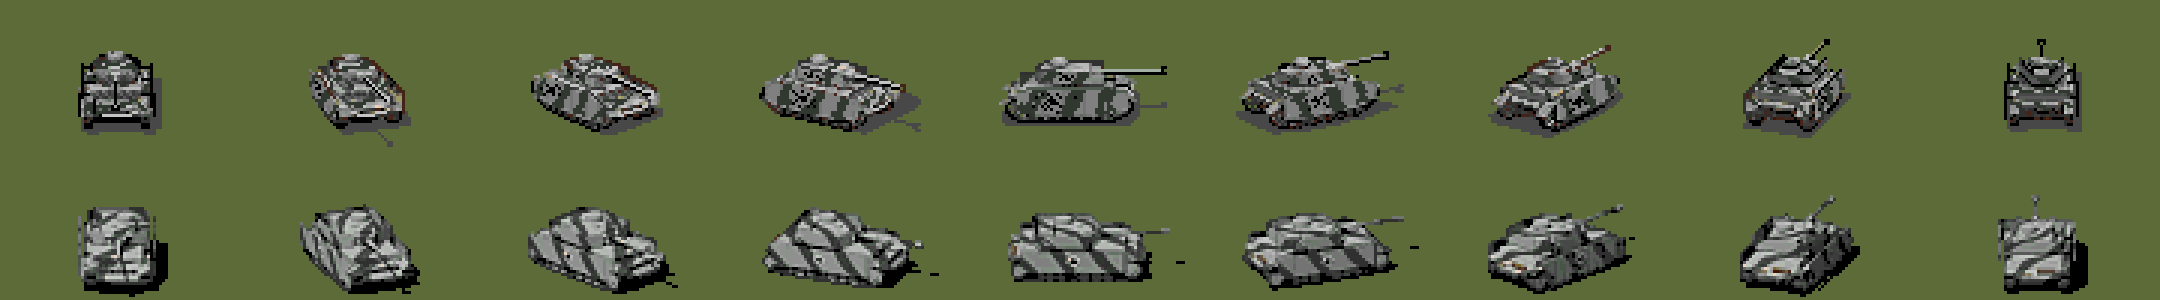
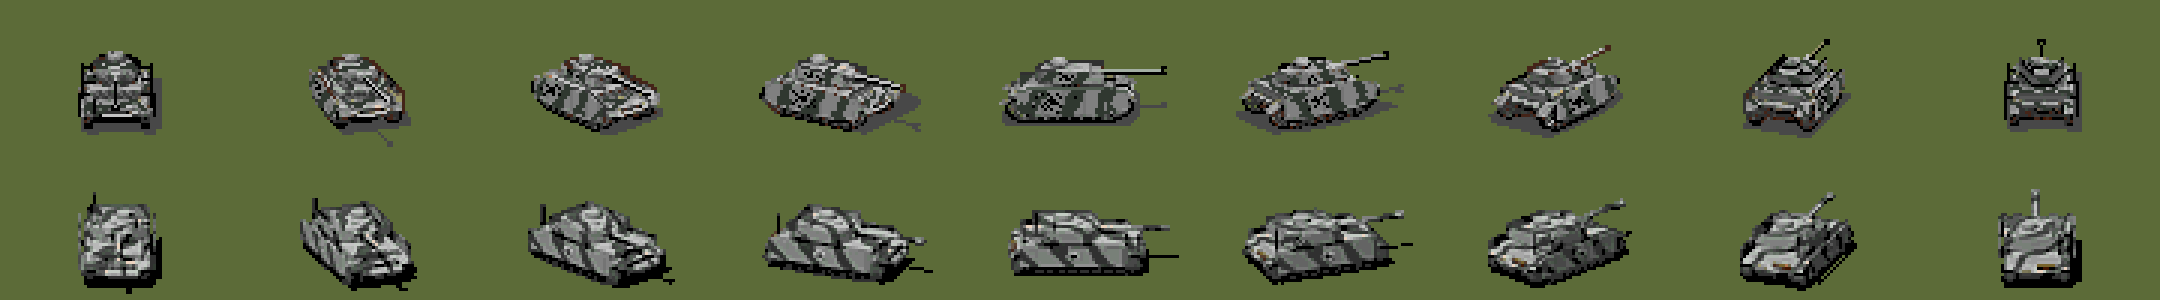
Seat the Panzer IV H sprite on the ground like the old ones
The new tank looked taller than the old sprite: from the side it was widest at the turret skirts and the gun, the old one at the hull and tracks, and its tracks ended 2 px lower in the frame. The pixel strip now squashes the height to 0.85 and puts the vehicle 2 px higher, draws the gun and the antenna thicker than real so they stay a line, lights the roof brighter than the sides and darkens the running gear. Every frame's area is within 5% of the old one. docs/ASSETS.md says what was measured and how the strip was seen in the game (as public/hd/units/images/pa131.webp, scenario Zitadelle). Docs and art scripts only.

diff --git a/art/units/render.py b/art/units/render.py
@@ -20,7 +20,8 @@ sys.path.insert(0, os.path.dirname(os.path.abspath(__file__)))
 import panzer_iv  # noqa: E402
 
 FRAME_W, FRAME_H = 80, 50
-CENTRE = (39.0, 31.5)  # where the original strips put the middle of the vehicle, in 1x pixels
+SUN_TILT = 32  # degrees from straight down
+CENTRE = (39.0, 29.5)  # where the middle of the vehicle goes, in 1x pixels: its tracks end where the old strips' do
 
 
 def reset():
@@ -94,8 +95,8 @@ def stripe_material(colours):
 	wave.wave_type = "BANDS"
 	wave.bands_direction = "DIAGONAL"
 	wave.inputs["Scale"].default_value = 0.3
-	wave.inputs["Distortion"].default_value = 4
-	wave.inputs["Detail"].default_value = 1
+	wave.inputs["Distortion"].default_value = 7
+	wave.inputs["Detail"].default_value = 2
 	ramp = nt.nodes.new("ShaderNodeValToRGB")
 	ramp.color_ramp.interpolation = "CONSTANT"
 	els = ramp.color_ramp.elements
@@ -113,6 +114,7 @@ def materials(palette="grey"):
 	return {
 		"paint": stripe_material(PALETTES[palette]) if palette == "grey" else camo_material(PALETTES[palette]),
 		"track": node_material("track", (0.035, 0.03, 0.028)),
+		"running": node_material("running", (0.07, 0.07, 0.065)),  # the wheels in the shade under the skirts
 		"rubber": node_material("rubber", (0.02, 0.02, 0.02)),
 		"rust": node_material("rust", (0.12, 0.05, 0.025)),
 		"black": node_material("black", (0.01, 0.01, 0.01)),
@@ -154,7 +156,7 @@ def lights():
 	sun = bpy.data.objects.new("sun", bpy.data.lights.new("sun", "SUN"))
 	sun.data.energy = 5
 	sun.data.angle = math.radians(2)
-	sun.rotation_euler = (math.radians(32), 0, math.radians(-35))  # from the upper left, behind the viewer
+	sun.rotation_euler = (math.radians(SUN_TILT), 0, math.radians(-35))  # from the upper left, behind the viewer
 	bpy.context.collection.objects.link(sun)
 	world = bpy.data.worlds.new("world")
 	world.use_nodes = True
@@ -220,28 +222,28 @@ def pack(frames, out, scale):
 	img.save()
 
 
-def fit(reference, elevs=range(0, 50, 5), scales=np.arange(7.0, 10.01, 0.5)):
+def fit(reference, elevs=range(0, 50, 5), scales=np.arange(7.0, 10.01, 0.5), squashes=(1.0,)):
 	ref = load_rgba(reference)
 	# The vehicle without its black shadow
 	ref_mask = (ref[..., 3] > 0.5) & (ref[..., :3].max(axis=2) > 0.02)
 	tmp = tempfile.mkdtemp()
 	results = []
-	for elev in elevs:
-		for pxm in scales:
-			reset()
-			root = build()
-			camera(elev, pxm, 1)
-			sc = bpy.context.scene
-			sc.render.engine = "BLENDER_WORKBENCH"
-			sc.display.shading.light = "FLAT"
-			render_frames(root, lambda i: os.path.join(tmp, f"m{i}.png"))
-			ious = []
-			for i in range(9):
-				m = load_rgba(os.path.join(tmp, f"m{i}.png"))[..., 3] > 0.5
-				r = ref_mask[:, i * FRAME_W:(i + 1) * FRAME_W]
-				ious.append((m & r).sum() / max((m | r).sum(), 1))
-			results.append((float(np.mean(ious)), elev, float(pxm), [round(float(x), 2) for x in ious]))
-			print(f"elev {elev:4.1f} px/m {pxm:4.1f} iou {np.mean(ious):.3f}", flush=True)
+	for elev, pxm, squash in ((e, p, q) for e in elevs for p in scales for q in squashes):
+		reset()
+		root = build()
+		root.scale = (1, 1, squash)
+		camera(elev, pxm, 1)
+		sc = bpy.context.scene
+		sc.render.engine = "BLENDER_WORKBENCH"
+		sc.display.shading.light = "FLAT"
+		render_frames(root, lambda i: os.path.join(tmp, f"m{i}.png"))
+		ious = []
+		for i in range(9):
+			m = load_rgba(os.path.join(tmp, f"m{i}.png"))[..., 3] > 0.5
+			r = ref_mask[:, i * FRAME_W:(i + 1) * FRAME_W]
+			ious.append((m & r).sum() / max((m | r).sum(), 1))
+		results.append((float(np.mean(ious)), float(elev), float(pxm), float(squash), [round(float(x), 2) for x in ious]))
+		print(f"elev {elev:4.1f} px/m {pxm:4.1f} squash {squash:4.2f} iou {np.mean(ious):.3f}", flush=True)
 	results.sort(reverse=True)
 	print("BEST", results[:5])
 
@@ -374,12 +376,15 @@ def pixelate(tank, shadowed, palette, f):
 	return out
 
 
-def pixel(reference, out, elev=22.5, pxm=7.6, squash=0.9, render_scale=8):
+def pixel(reference, out, elev=22.5, pxm=7.6, squash=0.85, render_scale=8):
 	# Render big, then pixelate to the 1x strip and to the @2x strip, in the old strip's colours
 	ref = load_rgba(reference)
 	opaque = ref[..., 3] > 0.5
 	palette = np.unique(np.round(ref[opaque][:, :3] * 255), axis=0) / 255
 	reset()
+	global SUN_TILT
+	SUN_TILT = 25  # a high sun: a bright roof over darker sides, as on the old sprites
+	panzer_iv.THICKEN.update(gun=1.6, antenna=5)
 	root = build()
 	# The PG2 sprites are squatter than the real vehicle: wider and longer for their height
 	root.scale = (1, 1, squash)
@@ -435,9 +440,10 @@ elif args[0] == "side":
 elif args[0] == "view":
 	view(os.path.abspath(args[1]), float(args[2]), float(args[3]))
 elif args[0] == "fit":
-	if len(args) > 2:  # a finer search: fit REF ELEV0 ELEV1 ELEVSTEP PXM0 PXM1 PXMSTEP
-		a = [float(x) for x in args[2:8]]
-		fit(os.path.abspath(args[1]), np.arange(a[0], a[1] + 1e-6, a[2]), np.arange(a[3], a[4] + 1e-6, a[5]))
+	if len(args) > 2:  # a finer search: fit REF ELEV0 ELEV1 ELEVSTEP PXM0 PXM1 PXMSTEP [SQ0 SQ1 SQSTEP]
+		a = [float(x) for x in args[2:]]
+		sq = np.arange(a[6], a[7] + 1e-6, a[8]) if len(a) >= 9 else (1.0,)
+		fit(os.path.abspath(args[1]), np.arange(a[0], a[1] + 1e-6, a[2]), np.arange(a[3], a[4] + 1e-6, a[5]), sq)
 	else:
 		fit(os.path.abspath(args[1]))
 else:

diff --git a/art/units/panzer_iv.py b/art/units/panzer_iv.py
@@ -28,6 +28,9 @@ ROLLERS_D = (1.46, 2.39, 3.41, 4.43)
 SPROCKET = (0.56, 0.66, 0.36)       # d, z, r
 IDLER = (5.45, 0.55, 0.30)
 SKIRT_Y, SKIRT_Z, SKIRT_D = 1.62, (0.60, 1.68), (0.95, 5.45)
+# A sprite needs the gun and the antenna thicker than real, or they break up at 80x50: the old
+# strips draw them as a clear line. render.py sets this for the pixel strips.
+THICKEN = {"gun": 1.0, "antenna": 1.0}
 TURRET_SKIRT_Y, TURRET_SKIRT_D = 1.33, (2.05, 4.85)
 
 
@@ -172,7 +175,7 @@ def hull(m):
 	parts.append(box("hatch_r", (4.45, 5.25), (-0.85, -0.10), (ENGINE_Z - 0.02, ENGINE_Z + 0.03), m["paint"]))
 	parts.append(cylinder("muffler", 0.12, 0.80, (5.70, -0.40, 1.19), "y", m["rust"], 14))
 	parts.append(cylinder("aux_muffler", 0.06, 0.45, (5.80, 0.45, 1.02), "y", m["rust"], 10))
-	parts.append(cylinder("antenna", 0.012, 1.2, (5.30, -1.0, ENGINE_Z + 0.6), "z", m["black"], 6))
+	parts.append(cylinder("antenna", 0.012 * THICKEN["antenna"], 1.2, (5.30, -1.0, ENGINE_Z + 0.6), "z", m["black"], 6))
 	return parts
 
 
@@ -197,8 +200,8 @@ def turret(m):
 	parts.append(cylinder("gun_collar", 0.15, 0.40, (1.75, o, GUN_Z), "x", m["paint"], 16))
 	parts.append(cylinder("gun_sleeve", 0.11, 0.50, (1.30, o, GUN_Z), "x", m["paint"], 16))
 	barrel = 1.05 - (MUZZLE_D + 0.32)
-	parts.append(cylinder("gun", 0.068, barrel, (1.05 - barrel / 2, o, GUN_Z), "x", m["paint"], 14))
-	parts.append(cylinder("muzzle_brake", 0.13, 0.32, (MUZZLE_D + 0.16, o, GUN_Z), "x", m["paint"], 16))
+	parts.append(cylinder("gun", 0.068 * THICKEN["gun"], barrel, (1.05 - barrel / 2, o, GUN_Z), "x", m["paint"], 14))
+	parts.append(cylinder("muzzle_brake", 0.13 * max(1, THICKEN["gun"] * 0.8), 0.32, (MUZZLE_D + 0.16, o, GUN_Z), "x", m["paint"], 16))
 	parts.append(cylinder("coax", 0.025, 0.25, (1.85, o + 0.25, GUN_Z + 0.05), "x", m["black"], 8))
 	return parts
 
@@ -251,14 +254,14 @@ def running_gear(m):
 		yc = s * TRACK_Y
 		parts.append(track_band(f"track_{s}", outer, yc - TRACK_W / 2, yc + TRACK_W / 2, m["track"]))
 		for i, d in enumerate(WHEELS_D):
-			parts.append(cylinder(f"wheel_{s}_{i}", WHEEL_R, TRACK_W * 0.9, (d, yc, WHEEL_R + 0.075), "y", m["paint"], 18))
+			parts.append(cylinder(f"wheel_{s}_{i}", WHEEL_R, TRACK_W * 0.9, (d, yc, WHEEL_R + 0.075), "y", m["running"], 18))
 			parts.append(cylinder(f"tyre_{s}_{i}", WHEEL_R + 0.005, TRACK_W * 0.86, (d, yc, WHEEL_R + 0.075), "y", m["rubber"], 18))
-			parts.append(cylinder(f"hub_{s}_{i}", 0.09, TRACK_W * 0.96, (d, yc, WHEEL_R + 0.075), "y", m["paint"], 10))
+			parts.append(cylinder(f"hub_{s}_{i}", 0.09, TRACK_W * 0.96, (d, yc, WHEEL_R + 0.075), "y", m["running"], 10))
 		for i, d in enumerate(ROLLERS_D):
-			parts.append(cylinder(f"roller_{s}_{i}", 0.11, 0.18, (d, s * (TRACK_Y + 0.05), 0.92), "y", m["paint"], 12))
-		parts.append(cylinder(f"sprocket_{s}", SPROCKET[2], TRACK_W + 0.04, (SPROCKET[0], yc, SPROCKET[1]), "y", m["paint"], 20))
-		parts.append(cylinder(f"sprocket_hub_{s}", 0.16, TRACK_W + 0.14, (SPROCKET[0], yc, SPROCKET[1]), "y", m["paint"], 12))
-		parts.append(cylinder(f"idler_{s}", IDLER[2], TRACK_W + 0.04, (IDLER[0], yc, IDLER[1]), "y", m["paint"], 20))
+			parts.append(cylinder(f"roller_{s}_{i}", 0.11, 0.18, (d, s * (TRACK_Y + 0.05), 0.92), "y", m["running"], 12))
+		parts.append(cylinder(f"sprocket_{s}", SPROCKET[2], TRACK_W + 0.04, (SPROCKET[0], yc, SPROCKET[1]), "y", m["running"], 20))
+		parts.append(cylinder(f"sprocket_hub_{s}", 0.16, TRACK_W + 0.14, (SPROCKET[0], yc, SPROCKET[1]), "y", m["running"], 12))
+		parts.append(cylinder(f"idler_{s}", IDLER[2], TRACK_W + 0.04, (IDLER[0], yc, IDLER[1]), "y", m["running"], 20))
 	return parts
 
 

diff --git a/docs/ASSETS.md b/docs/ASSETS.md
@@ -194,31 +194,70 @@ one.
 With true proportions the new tank came out narrower and taller than the old one. Measured
 outlines without the shadow, 1x pixels:
 
-| Frame | Old | True scale (7.2 px/m) | Chosen (7.6 px/m, height × 0.9) |
-|---|---|---|---|
-| 0, front | 28 × 28 | 24 × 26 | 26 × 26 |
-| 2, three-quarter | 43 × 27 | 44 × 28 | 46 × 28 |
-| 4, side | 56 × 23 | 51 × 24 | 54 × 23 |
-| 8, rear | 25 × 25 | 24 × 31 | 26 × 31 |
+| Frame | Old | True scale (7.2 px/m) | First fix (7.6 px/m, height × 0.9) | Final (7.6 px/m, height × 0.85) |
+|---|---|---|---|---|
+| 0, front | 28 × 28 | 24 × 26 | 26 × 26 | 26 × 29 |
+| 2, three-quarter | 43 × 27 | 44 × 28 | 46 × 28 | 46 × 28 |
+| 4, side | 56 × 23 | 51 × 24 | 54 × 23 | 54 × 22 |
+| 8, rear | 25 × 25 | 24 × 31 | 26 × 31 | 26 × 31 |
 
 The old strip is not one consistent projection: 56 px long from the side but 43 px across at 45
 degrees, where a true projection of that length and width would be about 59. The photographs of
 the scale models were probably taken close up, with perspective, so each angle is squeezed
 differently. A geometric render can't match every frame; the chosen scale keeps the new tank the
-size of the old units on the map: front and side 1-2 px smaller, the diagonals 1-3 px larger. The
-rear view stays taller (the gun shows above the turret from behind, and the antenna).
+size of the old units on the map: front and side 1-2 px smaller, the diagonals 1-3 px larger, the
+area of every frame within 5% of the old one. The rear view stays taller (the gun shows above the
+turret from behind). The front grew 3 px with the thicker antenna.
+
+The model keeps its real measurements: only the projection is scaled (`render.py pixel`:
+`pxm`, `squash`), as SSI's camera did.
+
+### Sitting on the ground
+
+Even at the old size the new tank looked taller, "not sitting on the ground" like the old one.
+Two measurable reasons:
+
+- **Where the mass is.** From the side the old sprite is widest at 70% of its height, down at the
+  long hull and the tracks; the first renders were widest at 26%, up at the turret skirts and the
+  gun. A tank that is heaviest at the bottom reads as standing on the ground. The stronger squash
+  (0.85) and the darker running gear move the weight down.
+- **Where it stands in the frame.** The new tracks ended 2 px lower than the old ones (y 43-46
+  against 41-44 in the 80×50 frame), so on a hex it stood differently from every other unit. The
+  camera now puts the vehicle's middle 2 px higher (`CENTRE`), and the tracks end where the old
+  strips' do.
+
+### Fixes for the sprite
+
+- The gun and the antenna are drawn thicker than real in the pixel strips (`THICKEN` in
+  `panzer_iv.py`: the gun 1.6 times, the antenna 5 times): at real size the gun is thinner than a
+  pixel and breaks up, the old strips draw both as a clear line.
+- A higher sun (25 degrees from straight down): a bright roof over darker sides, as on the old
+  sprites. The road wheels, sprocket, idler and return rollers are a dark grey of their own, in
+  the shade under the skirts.
+- The camouflage bands are more irregular (more distortion in the wave).
+
+### Seen in the game
+
+The game already loads a sharper file for each unit on high density screens (`src/render.ts`,
+`hdPath`): `resources/units/images/pa131.png` is drawn from `/hd/units/images/pa131.webp` when it
+exists. So the new strip goes in without touching the game:
+
+    cwebp -lossless out@2x.png -o public/hd/units/images/pa131.webp
+
+`npm run dev`, then on a screen of 1.5x or more: New Game, Scenarios, **Zitadelle** (not
+"Operation Zitadelle"): six Pz IVH stand in the German column on the road to Belgorod, on hexes
+(20,6), (20,12), (21,15), (25,23), (28,23), (28,33). Hovering one shows "Unit: Pz IVH". It works:
+the tank shows, selects and moves like any other unit. `public/hd/` is not in Git (it holds the
+generated files of `scripts/upscale-assets.sh`), so the strip only shows where it was copied.
 
 ### What's left
 
-- The gun breaks up in places at 1x: it is thinner than a pixel. The old strips draw the gun and
-  the antenna as a clear line; the sprite may need them thicker than real.
-- The old sprites have more contrast between the roof and the sides and a darker running gear.
-- The camouflage bands are still more regular than the old ones.
-- Not seen in the game yet: the next step is the strip as `public/hd/units/images/pa131.webp`,
-  the @2x file the renderer already loads (`src/render.ts`, `hdPath`). `scripts/upscale-assets.sh`
-  makes these files for every unit and map today (hqx for units, Real-ESRGAN for maps).
+- A way to ship the new strips: `public/hd/` is generated and ignored, so a made strip needs its
+  own place in the repo and a step that copies it there (after `upscale-assets.sh`, which skips
+  files that exist).
 - The widths (turret, superstructure) come from photographs and general data, not a top view;
   *Panzer Tracts 4-3* has one.
+- The camouflage is the old grey; Dunkelgelb (`PALETTE=dunkelgelb`) blends into the yellow maps.
 
 ### Cost
 
@@ -234,7 +273,8 @@ look round in the Blender app (numpad 0 looks through the game's camera).
 ## Plan
 
 1. Unit pilot: done for the Panzer IV H (above), modelled from a drawing rather than taken from
-   Spring: 1944. Left: the strip in the game, the fixes listed above.
+   Spring: 1944, and seen in the game. Next: a way to ship the strips, then the other Panzer IV
+   variants (F2, G, J), which share most of the parts.
 2. Map pilot: one map through Real-ESRGAN with the "anti-plastic" pass, compared 1:1, the grid
    check.
 3. After the pilots, before going on: a style guide (camera angle, light, outline, palette,
